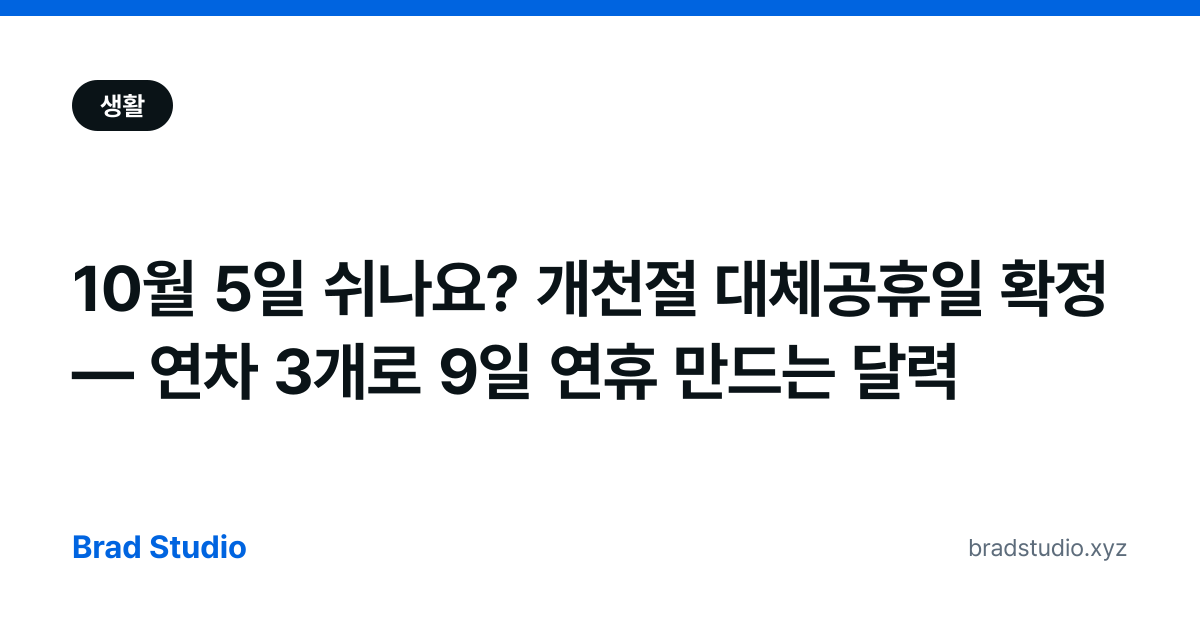
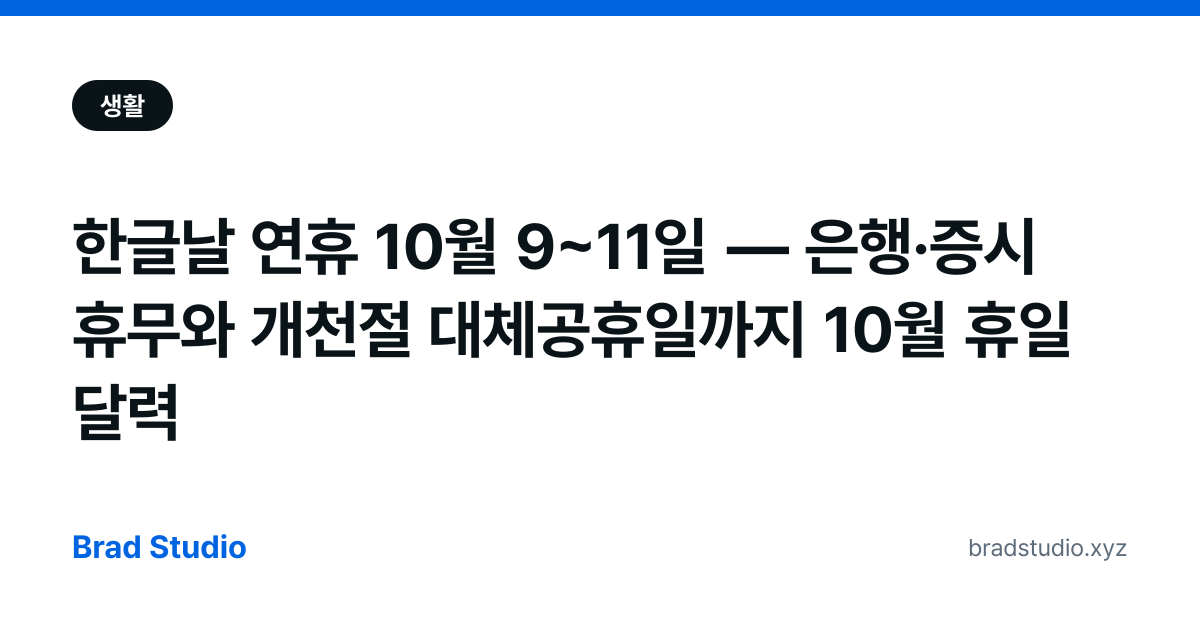
content: 키워드 글 갱신 — 한글날 연휴 10/9~11, 어르신 독감 접종 진행 상황
- bs-20260929-004: 개천절 연휴 종료 반영, 제목·설명을 한글날 연휴 중심으로, 은행·증시 10/9 휴무와 연휴 전 할 일 갱신
- flu-vaccination-2026: 75세 이상 10/6 시작 반영, 70~74세 10/12·65~69세 10/15 안내

Claude-Session: https://claude.ai/code/session_016W68o6eYMen6oLnjrGLJi9

Changed region(s): [[0.0617, 0.3317, 0.925, 0.7238]]

diff --git a/src/content/blog/national-foundation-day-substitute-holiday-2026.md b/src/content/blog/national-foundation-day-substitute-holiday-2026.md
@@ -1,9 +1,9 @@
 ---
 contentId: "bs-20260929-004"
-title: '10월 5일 쉬나요? 개천절 대체공휴일 확정 — 연차 3개로 9일 연휴 만드는 달력'
-description: '2026년 개천절(10월 3일)이 토요일이라 10월 5일(월)이 대체공휴일입니다. 한글날 10월 9일(금)까지 합치면 연차 3일(10/6~8)로 10월 3일~11일 9일 연휴가 됩니다. 은행 휴무, 유급휴일 대상, 연차 조합을 정리했습니다.'
+title: '한글날 연휴 10월 9~11일 — 은행·증시 휴무와 개천절 대체공휴일까지 10월 휴일 달력'
+description: '개천절 연휴(10월 3~5일)가 끝나고 다음 연휴는 한글날 10월 9일(금)부터 11일(일)까지 사흘입니다. 은행·증시가 쉬는 날, 연휴 전 처리할 일, 5인 미만 사업장 유급휴일 여부, 대체공휴일이 없는 이유를 정리했습니다.'
 pubDate: 2026-09-29
-updatedDate: 2026-10-01
+updatedDate: 2026-10-07
 thumbnail:
   url: 'https://images.unsplash.com/photo-1599756380350-b3a618d1f2d0?crop=entropy&cs=tinysrgb&fit=max&fm=jpg&q=80&w=1080'
   alt: '벽에 걸린 10월 달력'
@@ -59,8 +59,10 @@ monetization:
   affiliateDisclosure: false
 
 faq:
-  - question: '10월 5일 월요일은 쉬는 날인가요?'
-    answer: '네. 개천절(10월 3일)이 토요일과 겹쳐 다음 첫 평일인 10월 5일(월)이 대체공휴일입니다. 관공서·은행·학교가 쉽니다.'
+  - question: '한글날 10월 9일은 무슨 요일이고 며칠 쉬나요?'
+    answer: '2026년 한글날은 금요일입니다. 토·일과 이어져 10월 9일부터 11일까지 사흘을 쉽니다. 관공서·은행·학교가 쉬고 주식시장도 휴장합니다.'
+  - question: '10월 5일 월요일은 쉬는 날이었나요?'
+    answer: '네. 개천절(10월 3일)이 토요일과 겹쳐 다음 첫 평일인 10월 5일(월)이 대체공휴일이었습니다.'
   - question: '회사도 10월 5일에 무조건 쉬나요?'
     answer: '5인 이상 사업장은 근로기준법에 따라 공휴일·대체공휴일이 유급휴일입니다. 5인 미만 사업장은 의무가 아니어서 회사 방침을 확인해야 합니다. 쉬는 날 일하면 휴일근로수당 대상입니다.'
   - question: '한글날(10월 9일)도 대체공휴일이 있나요?'
@@ -74,7 +76,9 @@ seo:
   noindex: false
 ---
 
-10월 5일(월) 출근해야 하는지 헷갈린다면 답은 "쉰다"입니다. 개천절이 토요일이라 월요일이 대체공휴일로 지정됐습니다.
+> **10월 7일 업데이트**: 개천절 연휴(10월 3~5일)는 끝났습니다. 다음 연휴는 **한글날 10월 9일(금)~11일(일)** 사흘입니다. 아래 "한글날 연휴 전에 할 일"부터 보면 됩니다.
+
+개천절이 토요일이라 10월 5일(월)이 대체공휴일로 지정됐고, 한글날은 금요일이라 주말과 붙어 사흘 연휴가 됩니다.
 
 ## 결론: 10월 3~5일 사흘, 9~11일 사흘
 
@@ -119,12 +123,14 @@ seo:
 
 ---
 
-## 연휴 전에 할 일
+## 한글날 연휴 전에 할 일
 
-1. **은행·송금**: 창구 업무와 큰 금액 이체는 10월 2일(금)까지 처리합니다.
-2. **연차 신청**: 10/6~8 연차는 팀 내 경쟁이 붙기 쉬우니 이번 주 안에 올리세요.
-3. **여행 할인**: 10월 1일부터 '여행가는 가을' 숙박쿠폰·테마열차 50% 할인이 시작됩니다. [여행가는 가을 혜택 정리](/blog/autumn-travel-campaign-2026/)에서 신청 순서를 확인하세요.
-4. **기차표**: 10월 1일부터 열차 예매가 출발 2개월 전으로 늘어납니다. 자세한 내용은 [10월부터 달라지는 제도](/blog/october-2026-policy-changes/)에 있습니다.
+1. **은행·송금**: 10월 9일(금)은 은행 창구가 쉽니다. 창구 업무와 큰 금액 이체는 10월 8일(목)까지 처리합니다.
+2. **주식 거래**: 10월 9일은 주식시장도 휴장합니다. 연휴 전 마지막 거래일은 10월 8일(목)입니다.
+3. **병원·약국**: 연휴에 문 여는 곳은 [공휴일 문 여는 약국·병원 찾는 법](/blog/holiday-open-pharmacy/)에서 확인하세요.
+4. **독감 접종**: 70~74세 무료접종은 연휴 직후 10월 12일(월)에 시작합니다. 일정은 [독감 예방접종 2026](/blog/flu-vaccination-2026/)에 있습니다.
+5. **여행 할인**: 10월 1일부터 '여행가는 가을' 숙박쿠폰·테마열차 50% 할인이 시작됩니다. [여행가는 가을 혜택 정리](/blog/autumn-travel-campaign-2026/)에서 신청 순서를 확인하세요.
+6. **기차표**: 10월 1일부터 열차 예매가 출발 2개월 전으로 늘어납니다. 자세한 내용은 [10월부터 달라지는 제도](/blog/october-2026-policy-changes/)에 있습니다.
 
 9월 28일 임시공휴일이 무산된 경위는 [9월 28일 임시공휴일 최종 무산](/blog/sep28-temporary-holiday/)에 정리했습니다.
 

diff --git a/src/content/blog/flu-vaccination-2026.md b/src/content/blog/flu-vaccination-2026.md
@@ -3,6 +3,7 @@ contentId: "bs-20260915-004"
 title: '독감 예방접종 2026 — 어르신 무료접종 10월 6일로 앞당겨, 75세·70세·65세 시작일표'
 description: '2026-2027절기 어르신 독감 무료접종 시작일이 앞당겨졌습니다. 75세 이상 10월 6일, 70~74세 10월 12일, 65~69세 10월 15일. 어린이 무료 대상은 14세(2012년생)까지 확대. 대상별 시작일, 무료 확인, 지정병원 찾기를 9월 30일 기준으로 정리했습니다.'
 pubDate: 2026-09-30
+updatedDate: 2026-10-07
 thumbnail:
   url: 'https://images.unsplash.com/photo-1612277795421-9bc7706a4a34?crop=entropy&cs=tinysrgb&fit=max&fm=jpg&q=80&w=1080'
   alt: '독감 예방접종 후 밴드를 붙이는 모습'
@@ -73,6 +74,8 @@ faq:
 seo:
   noindex: false
 ---
+
+> **10월 7일 업데이트**: 75세 이상 어르신 무료접종은 10월 6일(화)에 시작했습니다. 다음 차례는 **70~74세 10월 12일(월)**, **65~69세 10월 15일(목)**입니다. 10월 9~11일은 한글날 연휴라 쉬는 의료기관이 있으니 방문 전 운영 여부를 확인하세요. 접종할 때는 신분증을 챙깁니다.
 
 독감 예방접종 시기를 검색하고 있다면 핵심 답변부터 드립니다. **2026-2027절기 인플루엔자 국가예방접종은 9월 21일(월)부터 시작**됩니다. 올해 어린이 무료 접종 대상이 기존 13세에서 **14세(2012년생)까지** 확대됐습니다. 65세 이상 어르신은 **10월 6일(75세 이상)**부터 순차 시작합니다. 올해 유행이 일찍 시작돼 어르신 일정이 당초보다 6일 앞당겨졌습니다.
 
